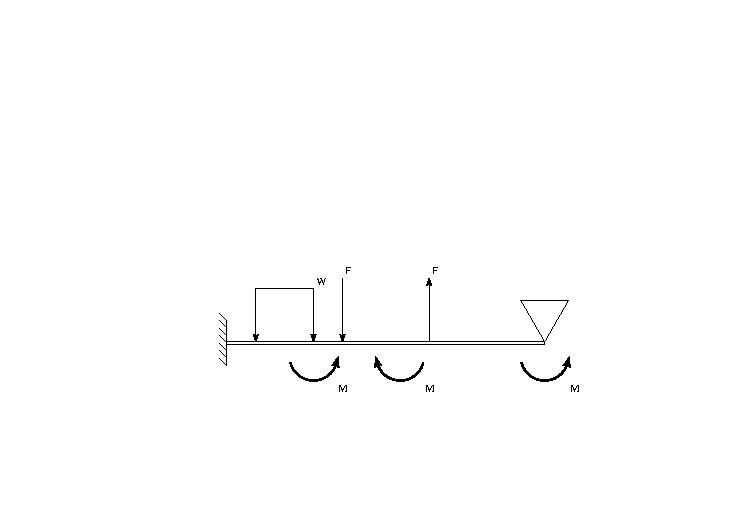
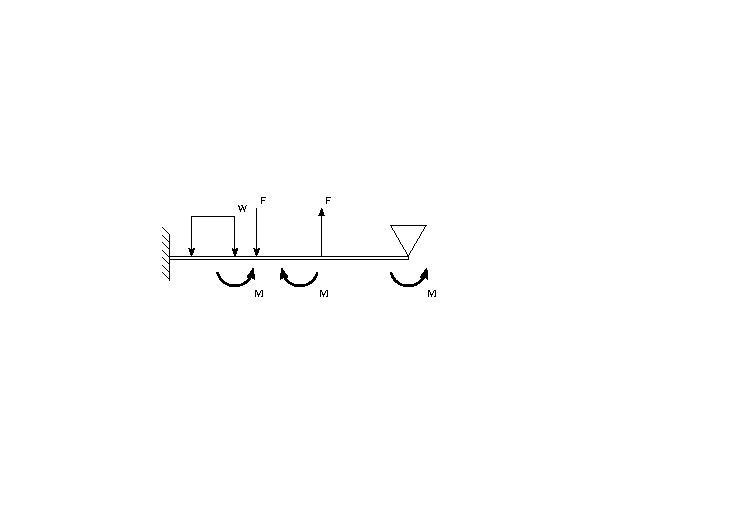
Fe-output

diff --git a/Image_generator3.0.py b/Image_generator3.0.py
@@ -48,7 +48,7 @@ def find_closest_point(coord, sides=["Bottom", "Top", "Left", "Right"]):
                     shortest_distance = distance
                     shortest_distance_coordinates = point
                     closest_beam = beam
-    try:
+    try: # Ändra så den gör så även om inga andra objekt identifierats
         return shortest_distance_coordinates, closest_beam
     except UnboundLocalError:
         sys.exit("Error: no beam identified")
@@ -784,8 +784,8 @@ def draw_all_objects():
             number_of_loads += 1
 
     for index, row in objects.iterrows():
-        m_x = interp1d([0, min(row[6], row[7])], [0, 800])
-        m_y = interp1d([0, min(row[6], row[7])], [0, 800])
+        m_x = interp1d([0, max(row[6], row[7])], [0, 800])
+        m_y = interp1d([0, max(row[6], row[7])], [0, 800])
         obj_type = labels[int(row[4])]
         x_min, y_min, x_max, y_max = float(m_x(row[0])), float(m_y(row[1])), float(m_x(row[2])), float(m_y(row[3]))
         if obj_type == "beam":
@@ -795,8 +795,8 @@ def draw_all_objects():
             beam = Beam(x_min, y_min, x_max, y_max, "90")
             beam.draw()
     for index, row in objects.iterrows():
-        m_x = interp1d([0, min(row[6], row[7])], [0, 800])
-        m_y = interp1d([0, min(row[6], row[7])], [0, 800])
+        m_x = interp1d([0, max(row[6], row[7])], [0, 800])
+        m_y = interp1d([0, max(row[6], row[7])], [0, 800])
         obj_type = labels[int(row[4])]
         x_min, y_min, x_max, y_max = float(m_x(row[0])), float(m_y(row[1])), float(m_x(row[2])), float(m_y(row[3]))
         if obj_type == "arrow_down":
@@ -863,8 +863,8 @@ def draw_all_objects():
            moment = Moment(x_min, y_min, x_max, y_max, "Counterclockwise", "Right")
            moment.draw()
     for index, row in objects.iterrows():
-        m_x = interp1d([0, min(row[6], row[7])], [0, 800])
-        m_y = interp1d([0, min(row[6], row[7])], [0, 800]) # Om vanligt koordinatsystem, byt 3 och 1 nedan och 800, 0 t.v.
+        m_x = interp1d([0, max(row[6], row[7])], [0, 800])
+        m_y = interp1d([0, max(row[6], row[7])], [0, 800]) # Om vanligt koordinatsystem, byt 3 och 1 nedan och 800, 0 t.v.
         obj_type = labels[int(row[4])]
         x_min, y_min, x_max, y_max = float(m_x(row[0])), float(m_y(row[1])), float(m_x(row[2])), float(m_y(row[3]))
         
@@ -880,7 +880,23 @@ def fe_input():
         beam_objects = []
         for obj_type in beam.objects:
             for obj in beam.objects[obj_type]:
-                beam_objects.append((str(obj), obj.point_index, obj.side, obj.magnitude)) #index+1?
+                if beam.orientation == "0":
+                    if side in ["Top", "Bottom"]:
+                        beam_objects.append((str(obj), obj.point_index, obj.magnitude)) 
+                    elif side == "Left":
+                        beam_objects.append((str(obj), 0, obj.magnitude)) 
+                    elif side == "Right":
+                        beam_objects.append((str(obj), 11, obj.magnitude)) 
+                elif beam.orientation == "90":
+                    if side in ["Left", "Right"]:
+                        beam_objects.append((str(obj), obj.point_index, obj.magnitude)) 
+                    elif side == "Top":
+                        beam_objects.append((str(obj), 0, obj.magnitude))
+                    elif side == "Bottom":
+                        beam_objects.append((str(obj), 11, obj.magnitude))  
+
+
+
     output['Beam' + str(index)] = beam_objects
     return output
 
@@ -935,8 +951,6 @@ def set_magnitude(obj, entry):
         delete_object(obj)
         obj = new_obj
     return obj
-
-    #print(obj.magnitude)
 
 
 def create_entries():
